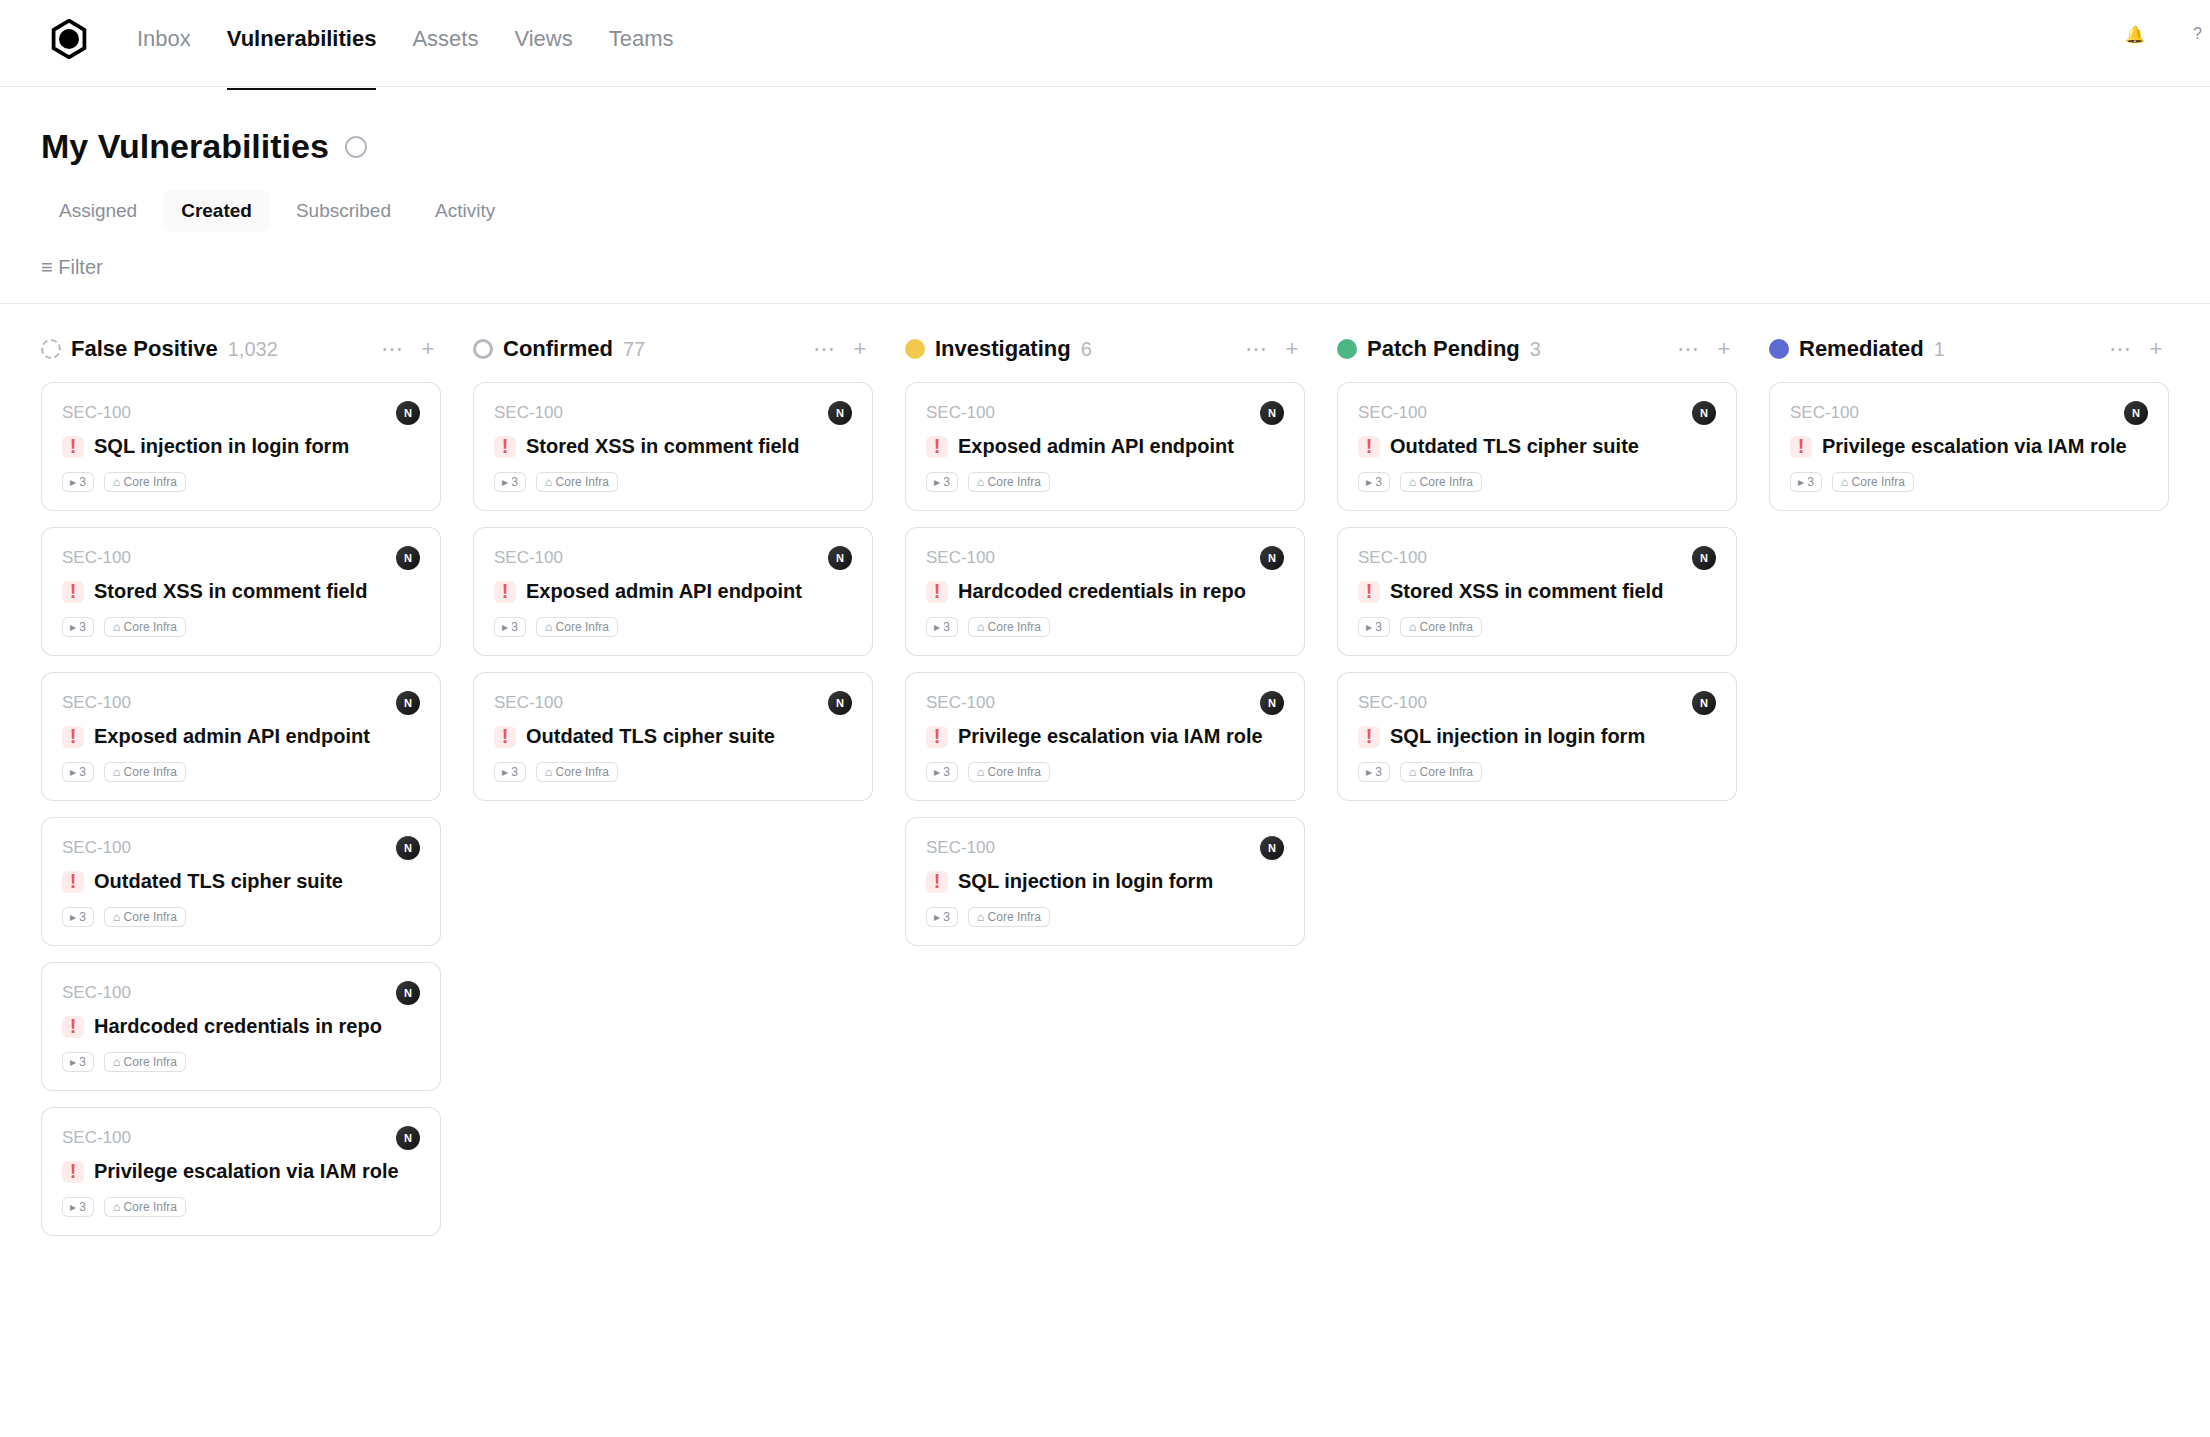
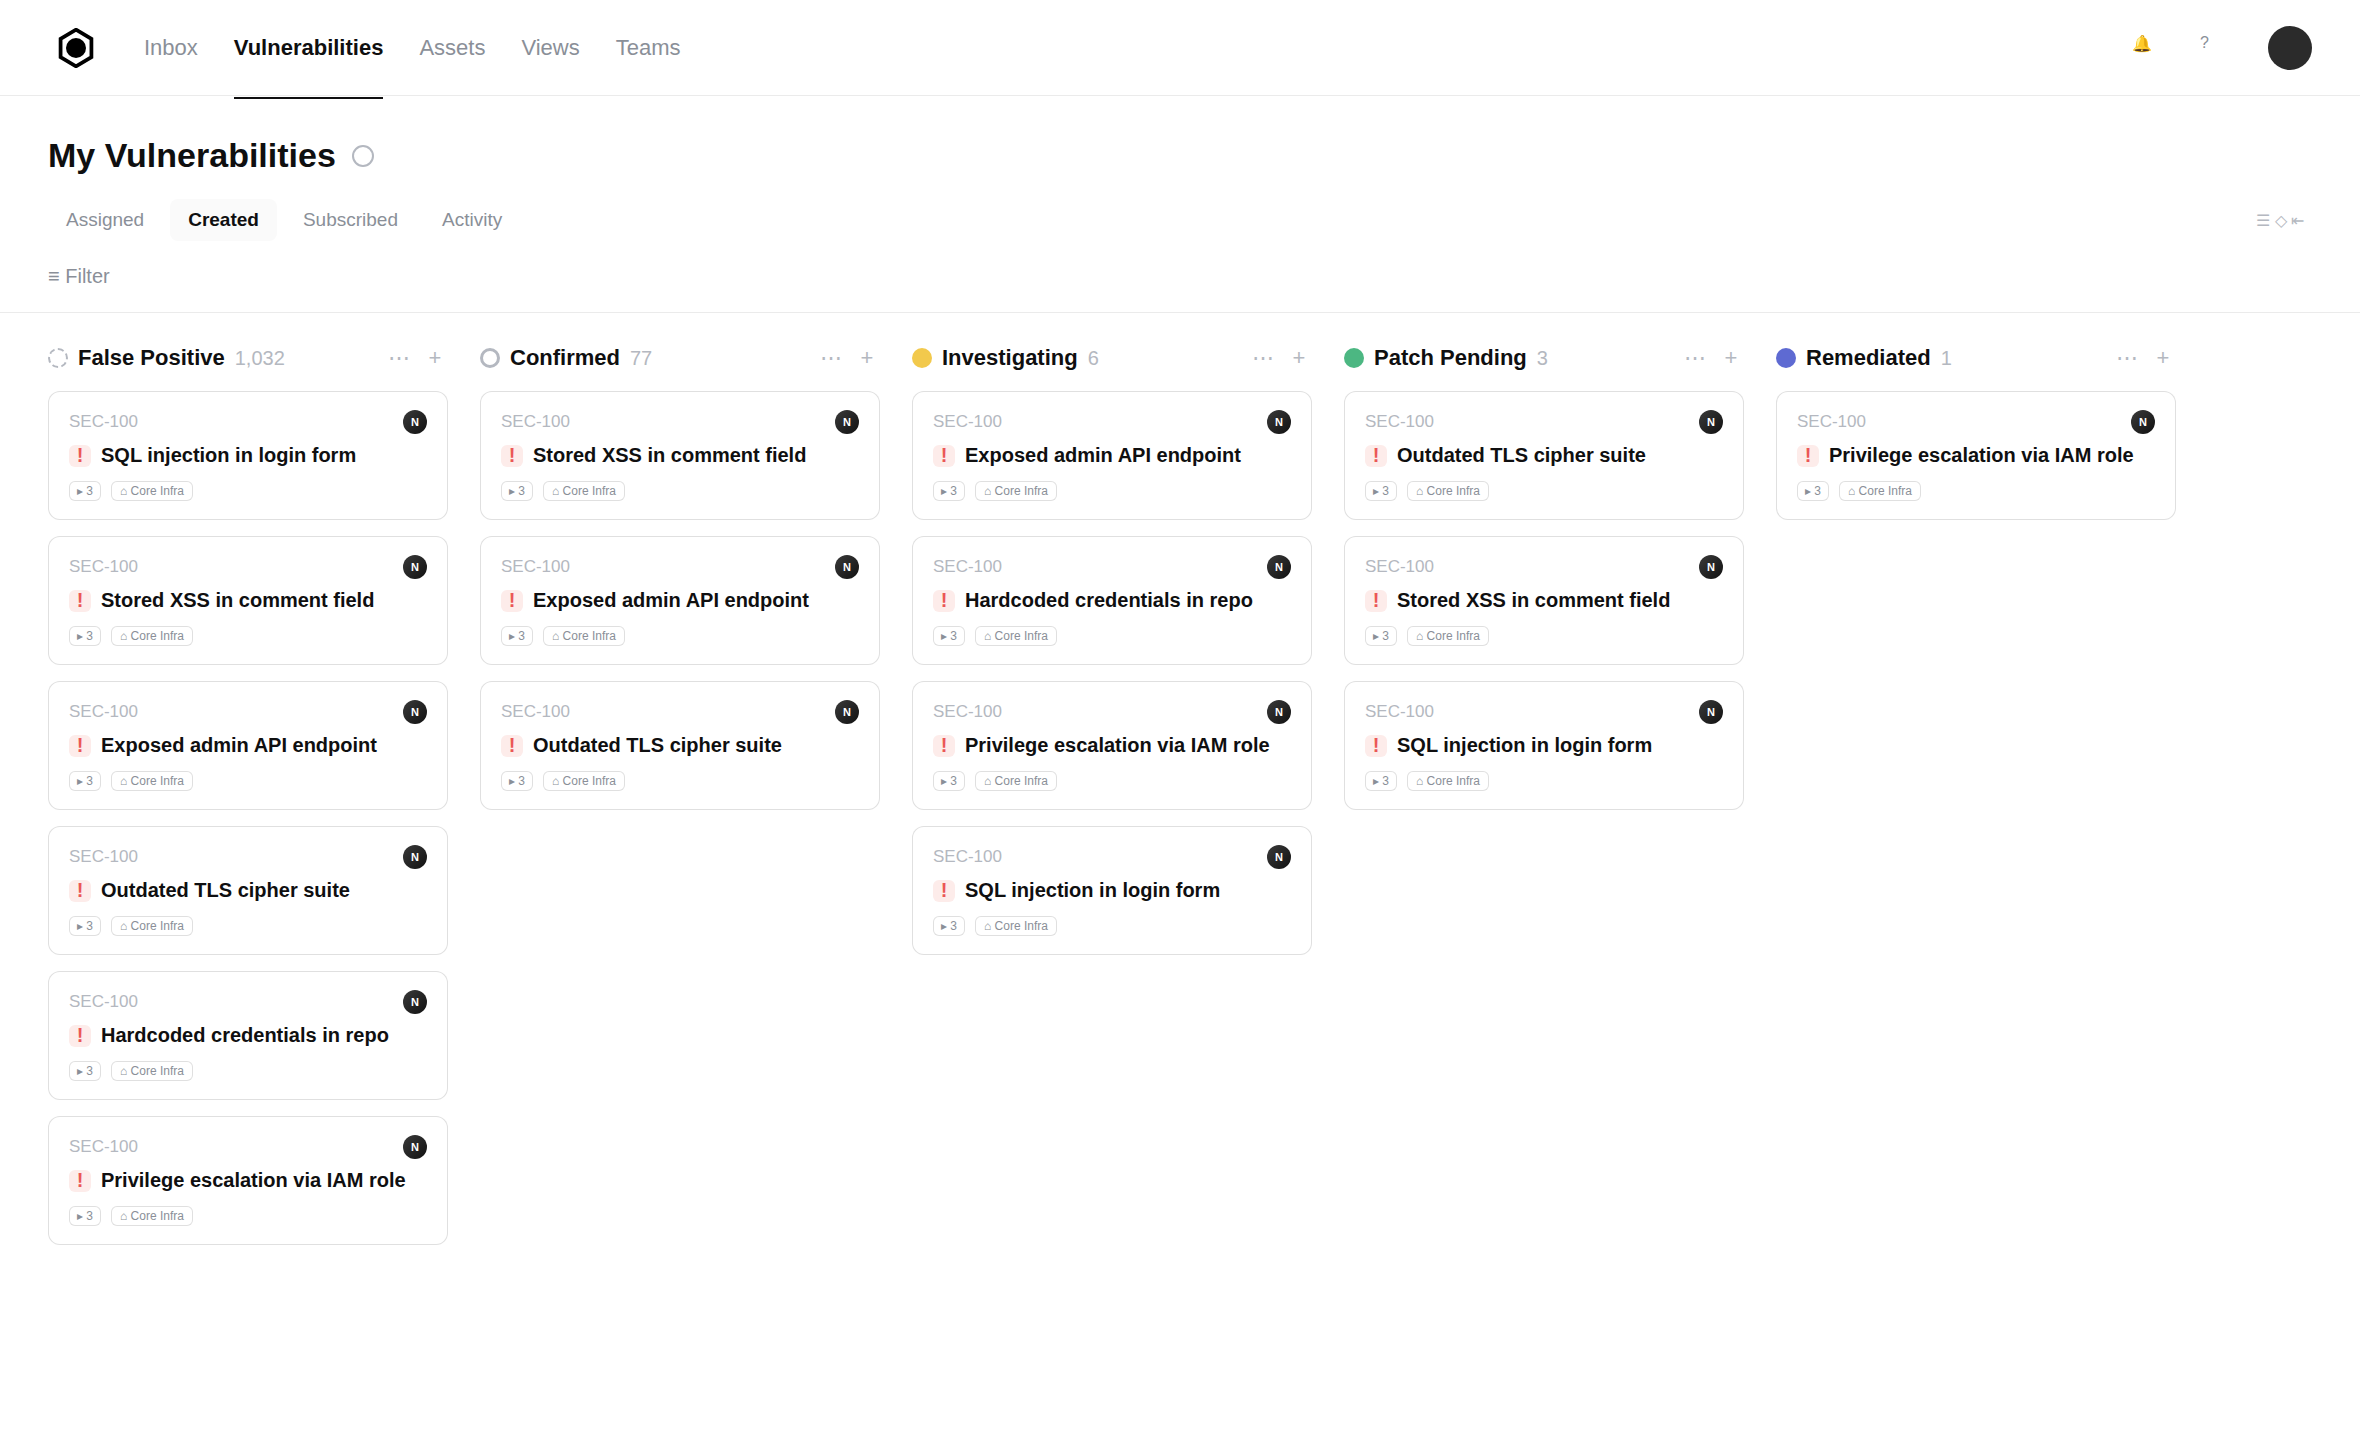
final push to website

diff --git a/src/components/blocks/hero.tsx b/src/components/blocks/hero.tsx
@@ -32,8 +32,7 @@ export const Hero = () => {
             src="/files/01-kanban-board.png"
             alt="hero"
             fill
-            className="rounded-2xl  shadow-lg max-lg:rounded-tr-none"
-            // className="rounded-2xl object-cover object-left-top shadow-lg max-lg:rounded-tr-none"
+            className="rounded-2xl object-cover object-left-top shadow-lg max-lg:rounded-tr-none"
           />
         </div>
       </div> 